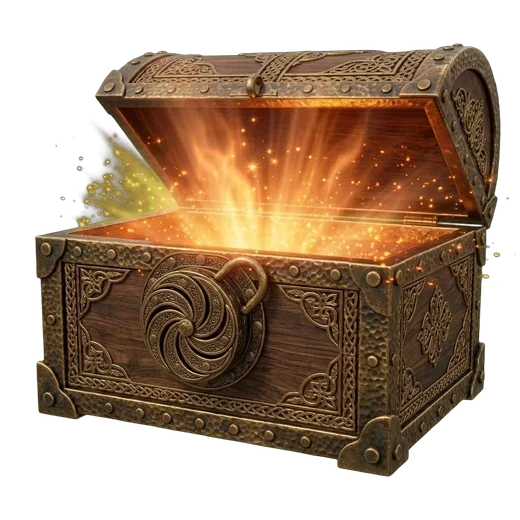
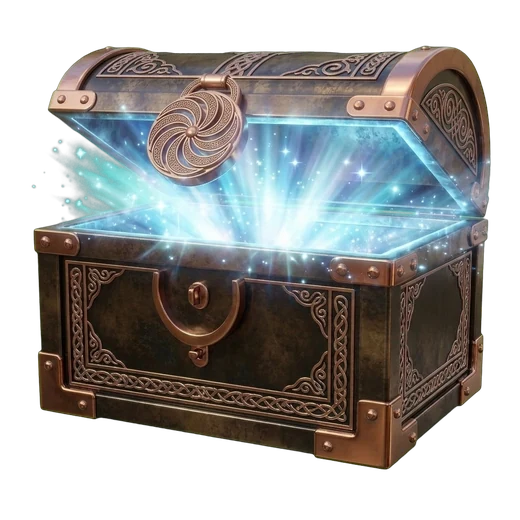
Bronze case: correct open chest, blue light to match
Claude-Session: https://claude.ai/code/session_01AL2dBCS2fTfjXEhGfirNkU

diff --git a/dev/artifact-index.html b/dev/artifact-index.html
@@ -2723,7 +2723,7 @@ function fakeTile(k) {
 const tileHTML = (t, win) => `<div class="rtile ${win ? 'win-slot' : ''}" style="--rc:${t.rc}"><span class="ri">${t.ic}</span><span>${t.t}</span></div>`;
 const wait = ms => new Promise(r => setTimeout(r, ms));
 async function openCase(k) {
-  const fx = $('caseFx'), c = CASEDEF[k], cg = { bronze: '#ff9a4a', silver: '#a8d8ff', gold: '#ffd27a' }[k];
+  const fx = $('caseFx'), c = CASEDEF[k], cg = { bronze: '#7fd0ff', silver: '#f3e6c4', gold: '#ffd27a' }[k];
   fx.innerHTML = `<div class="cstage" style="--cg:${cg}"><div class="rays"></div><div class="halo"></div><div class="shadow"></div><div class="beam"></div>
     <div class="chest"><img class="cc" src="assets/cases/${k}_c.webp" alt=""><img class="co" src="assets/cases/${k}_o.webp" alt=""></div></div>
     <div class="cres"><span>${c.name}</span></div>`;

diff --git a/index.html b/index.html
@@ -2739,7 +2739,7 @@ function fakeTile(k) {
 const tileHTML = (t, win) => `<div class="rtile ${win ? 'win-slot' : ''}" style="--rc:${t.rc}"><span class="ri">${t.ic}</span><span>${t.t}</span></div>`;
 const wait = ms => new Promise(r => setTimeout(r, ms));
 async function openCase(k) {
-  const fx = $('caseFx'), c = CASEDEF[k], cg = { bronze: '#ff9a4a', silver: '#a8d8ff', gold: '#ffd27a' }[k];
+  const fx = $('caseFx'), c = CASEDEF[k], cg = { bronze: '#7fd0ff', silver: '#f3e6c4', gold: '#ffd27a' }[k];
   fx.innerHTML = `<div class="cstage" style="--cg:${cg}"><div class="rays"></div><div class="halo"></div><div class="shadow"></div><div class="beam"></div>
     <div class="chest"><img class="cc" src="assets/cases/${k}_c.webp" alt=""><img class="co" src="assets/cases/${k}_o.webp" alt=""></div></div>
     <div class="cres"><span>${c.name}</span></div>`;
